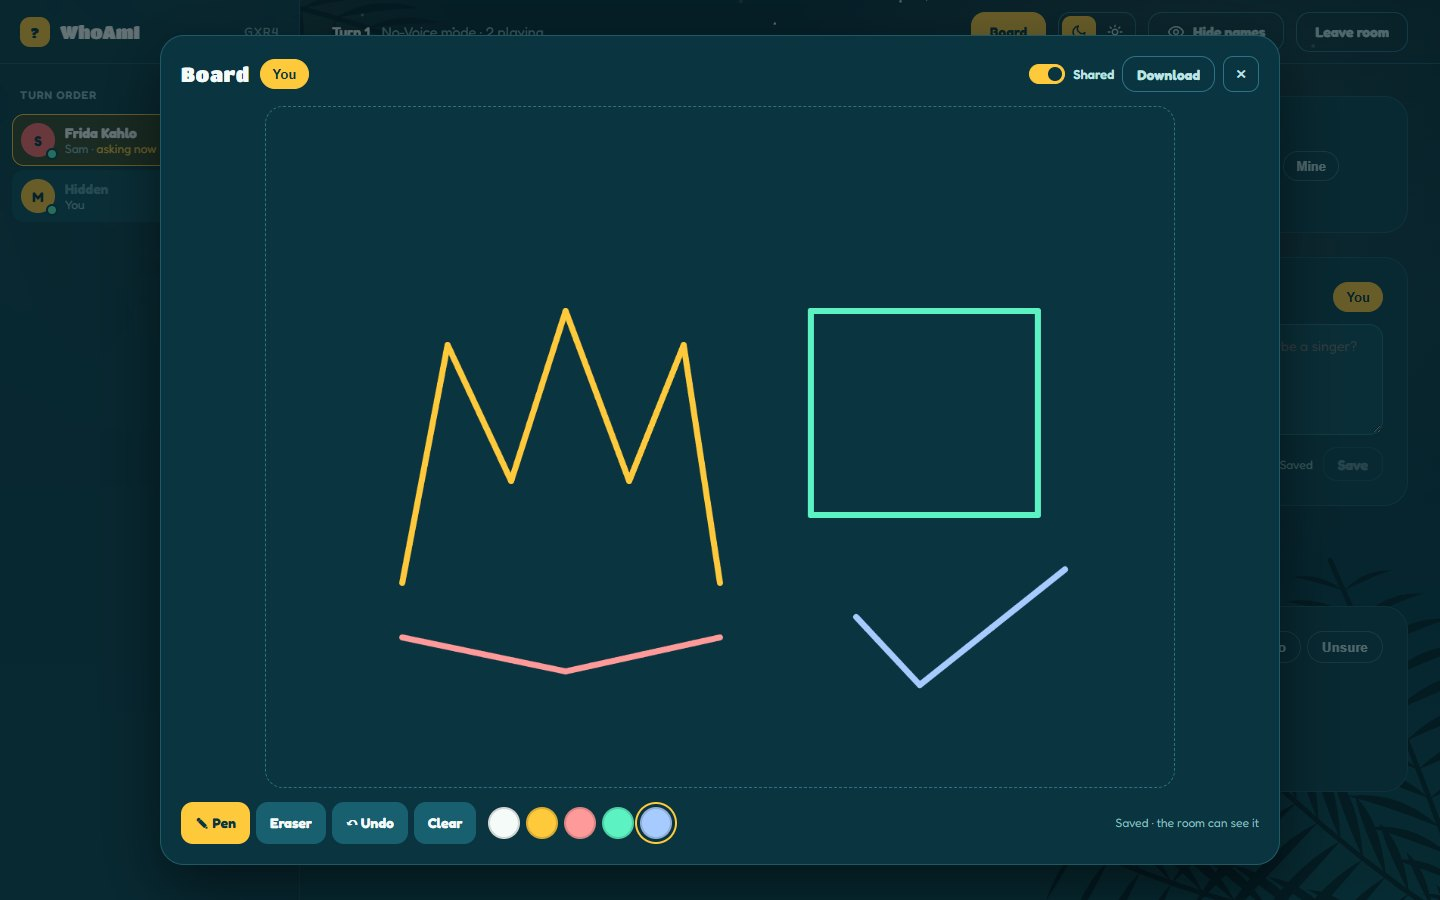
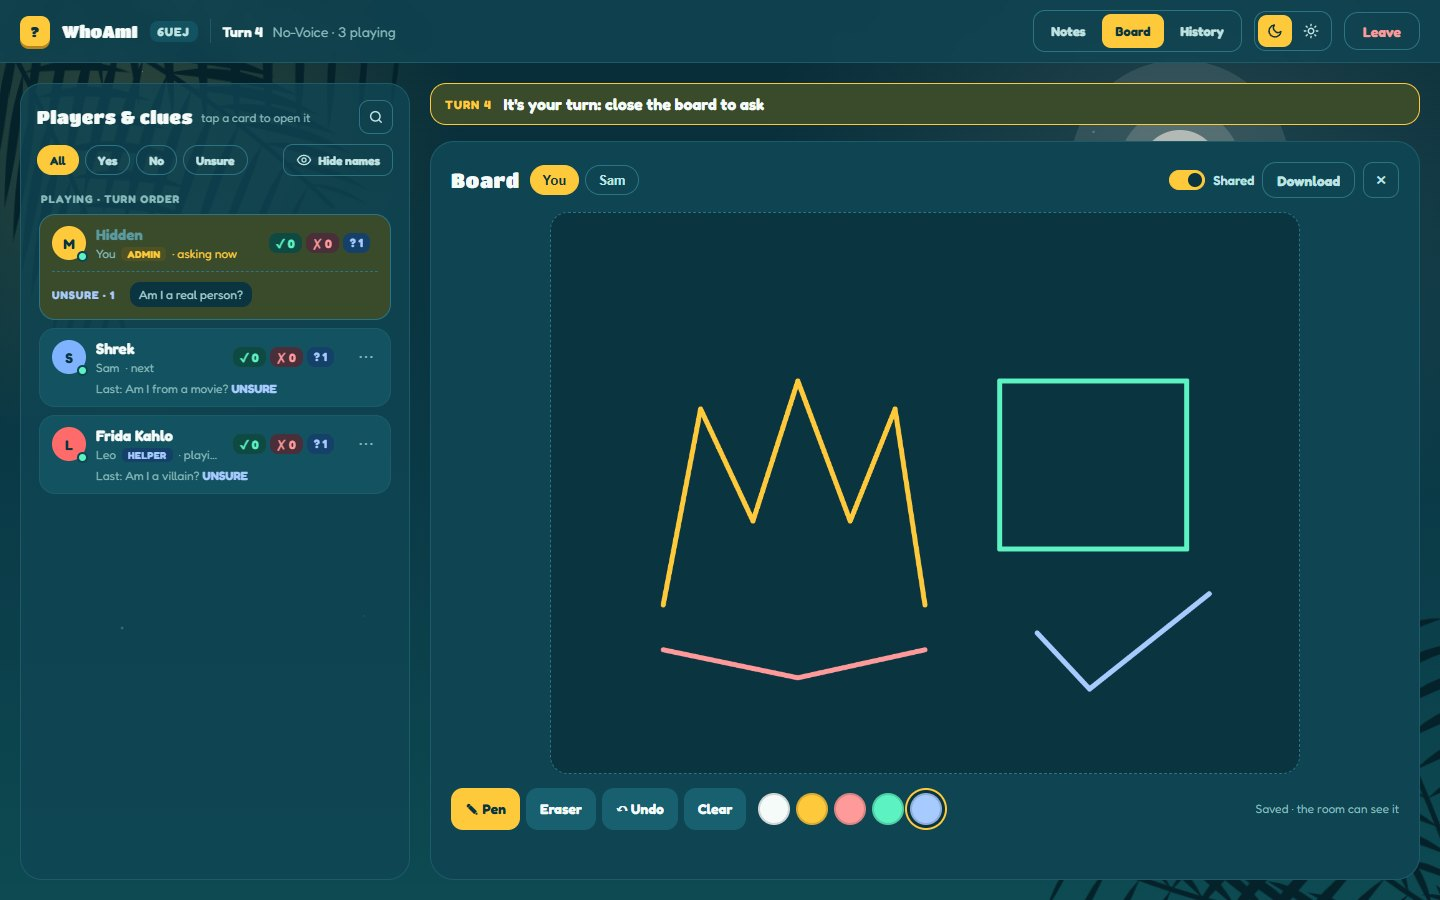
Update the README screenshots and captions for Layout A

diff --git a/README.md b/README.md
@@ -50,8 +50,8 @@ No accounts, no downloads: create a room, share the 4-letter code, and play from
 ## 📸 Screenshots
 
 <p align="center">
-  <img src="docs/screenshots/game-vote.jpg" alt="The game screen: a question to vote on, the history, notes and the clue board" width="100%">
-  <br><sub><b>The game.</b> Vote on Sam's question, see everyone's clues, history and your own notes.</sub>
+  <img src="docs/screenshots/game-vote.jpg" alt="The game screen: the Players and clues rail, a question to vote on, and the History panel" width="100%">
+  <br><sub><b>The game.</b> Players &amp; clues on the left, the question to vote on in the middle, History or Notes on the right.</sub>
 </p>
 
 <table>
@@ -60,8 +60,8 @@ No accounts, no downloads: create a room, share the 4-letter code, and play from
     <td width="50%"><img src="docs/screenshots/home-day.jpg" alt="Home page by day"><br><sub>…and by day.</sub></td>
   </tr>
   <tr>
-    <td><img src="docs/screenshots/lobby.jpg" alt="The lobby with the room code"><br><sub><b>Lobby.</b> Share the code and wait for friends.</sub></td>
-    <td><img src="docs/screenshots/writing.jpg" alt="The writing phase"><br><sub><b>Writing.</b> Everyone adds a character to the pool.</sub></td>
+    <td><img src="docs/screenshots/lobby.jpg" alt="The lobby with the room code and the Players rail"><br><sub><b>Lobby.</b> Share the code; the Admin names Helpers from the Players rail.</sub></td>
+    <td><img src="docs/screenshots/writing.jpg" alt="The writing phase"><br><sub><b>Writing.</b> Everyone adds a character to the pool; the rail shows who's done.</sub></td>
   </tr>
   <tr>
     <td><img src="docs/screenshots/game-guess.jpg" alt="Judging a guess"><br><sub><b>Guessing.</b> The others judge if the guess is right.</sub></td>
@@ -70,22 +70,22 @@ No accounts, no downloads: create a room, share the 4-letter code, and play from
 </table>
 
 <p align="center">
-  <img src="docs/screenshots/board.jpg" alt="The drawing Board open over the game" width="100%">
+  <img src="docs/screenshots/board.jpg" alt="The drawing Board open next to the Players and clues rail" width="100%">
   <br><sub><b>The Board.</b> Sketch your theories with a finger, a stylus or the mouse, and share them with the room, live.</sub>
 </p>
 
 ### 📱 Made for phones too
 
 <p align="center">
+  <img src="docs/screenshots/phone-lobby.jpg" alt="The lobby on a phone" width="23%">
+  &nbsp;
   <img src="docs/screenshots/phone-vote.jpg" alt="Voting on a phone" width="23%">
   &nbsp;
-  <img src="docs/screenshots/phone-clues.jpg" alt="The clue board on a phone" width="23%">
+  <img src="docs/screenshots/phone-clues.jpg" alt="Players and clues on a phone" width="23%">
   &nbsp;
   <img src="docs/screenshots/phone-board.jpg" alt="Drawing on the Board on a phone" width="23%">
-  &nbsp;
-  <img src="docs/screenshots/phone-players.jpg" alt="The players sheet on a phone" width="23%">
 </p>
-<p align="center"><sub>Big answer buttons at your thumb, a tab bar for Play · Clues · Board · History · Notes, and a players sheet that slides up.</sub></p>
+<p align="center"><sub>The code first in the lobby, big answer buttons at your thumb, and a tab bar for Play · Clues · Board · History · Notes.</sub></p>
 
 ## ✨ Features
 
@@ -100,8 +100,8 @@ No accounts, no downloads: create a room, share the 4-letter code, and play from
       Every vote, question and guess shows up instantly for everyone with Supabase Realtime, with polling as a safety net. Online dots show who's connected.
     </td>
     <td width="33%" valign="top">
-      <h4>🧩 Clue board</h4>
-      Every player's answers on one board, filtered by Yes, No or Unsure. Plus the full history of the game.
+      <h4>🧩 Players &amp; clues</h4>
+      One card per player with their role, status and answers; open a card to see its clues, filtered by Yes, No or Unsure. Plus the full history of the game.
     </td>
   </tr>
   <tr>
